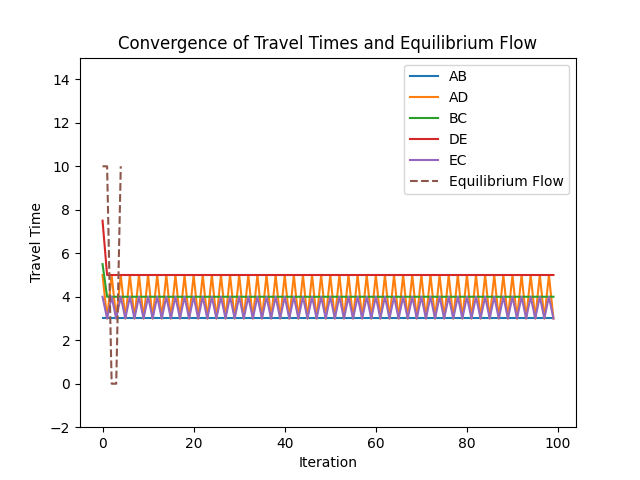
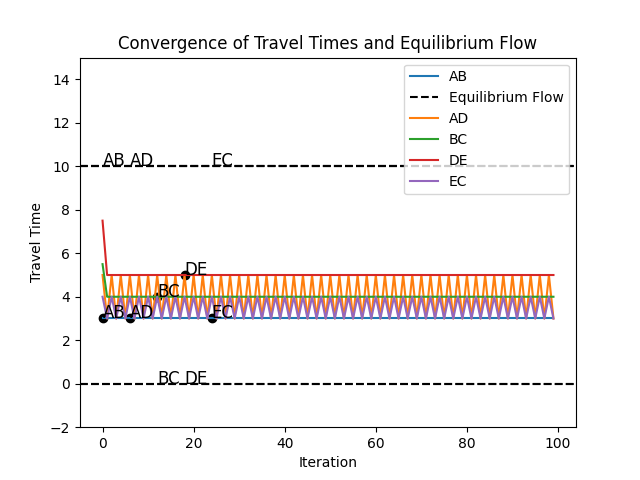
first commit

diff --git a/UE_solution.py b/UE_solution.py
@@ -82,12 +82,20 @@ print("link travel times:", link_travel_times)
 
 # Plot the convergence of travel times and equilibrium flow
 import matplotlib.pyplot as plt
+i=0
 for link, times in link_travel_times.items():
     plt.plot(times, label=link)
     # plot the equilibrium flow
     plt.axhline(y=equilibrium_flow[link], color='black', linestyle='--')
-    plt.text(0, equilibrium_flow[link], link, fontsize=12)
-    
+    # annotate the equilibrium flow
+    plt.text(i, equilibrium_flow[link], link, fontsize=12)
+    plt.text(i, times[-1], link, fontsize=12)
+    plt.scatter(i, times[-1], color='black')
+    # legend for equilibrium flow for -- line
+    if i==0:
+        plt.plot([], label='Equilibrium Flow', color='black', linestyle='--')
+    i+=6
+
 # ylim to make the plot look better
 plt.ylim(-2, 15)
 plt.title("Convergence of Travel Times and Equilibrium Flow")

diff --git a/README.md b/README.md
@@ -147,9 +147,21 @@ Links AD and DE have higher travel times, suggesting potential congestion or lon
 
 ```
 import matplotlib.pyplot as plt
+i=0
 for link, times in link_travel_times.items():
     plt.plot(times, label=link)
-plt.plot([equilibrium_flow[link] for link in equilibrium_flow], label="Equilibrium Flow", linestyle='--')
+    # plot the equilibrium flow
+    plt.axhline(y=equilibrium_flow[link], color='black', linestyle='--')
+    # annotate the equilibrium flow
+    plt.text(i, equilibrium_flow[link], link, fontsize=12)
+    plt.text(i, times[-1], link, fontsize=12)
+    plt.scatter(i, times[-1], color='black')
+    # legend for equilibrium flow for -- line
+    if i==0:
+        plt.plot([], label='Equilibrium Flow', color='black', linestyle='--')
+    i+=6
+
+# ylim to make the plot look better
 plt.ylim(-2, 15)
 plt.title("Convergence of Travel Times and Equilibrium Flow")
 plt.xlabel("Iteration")
